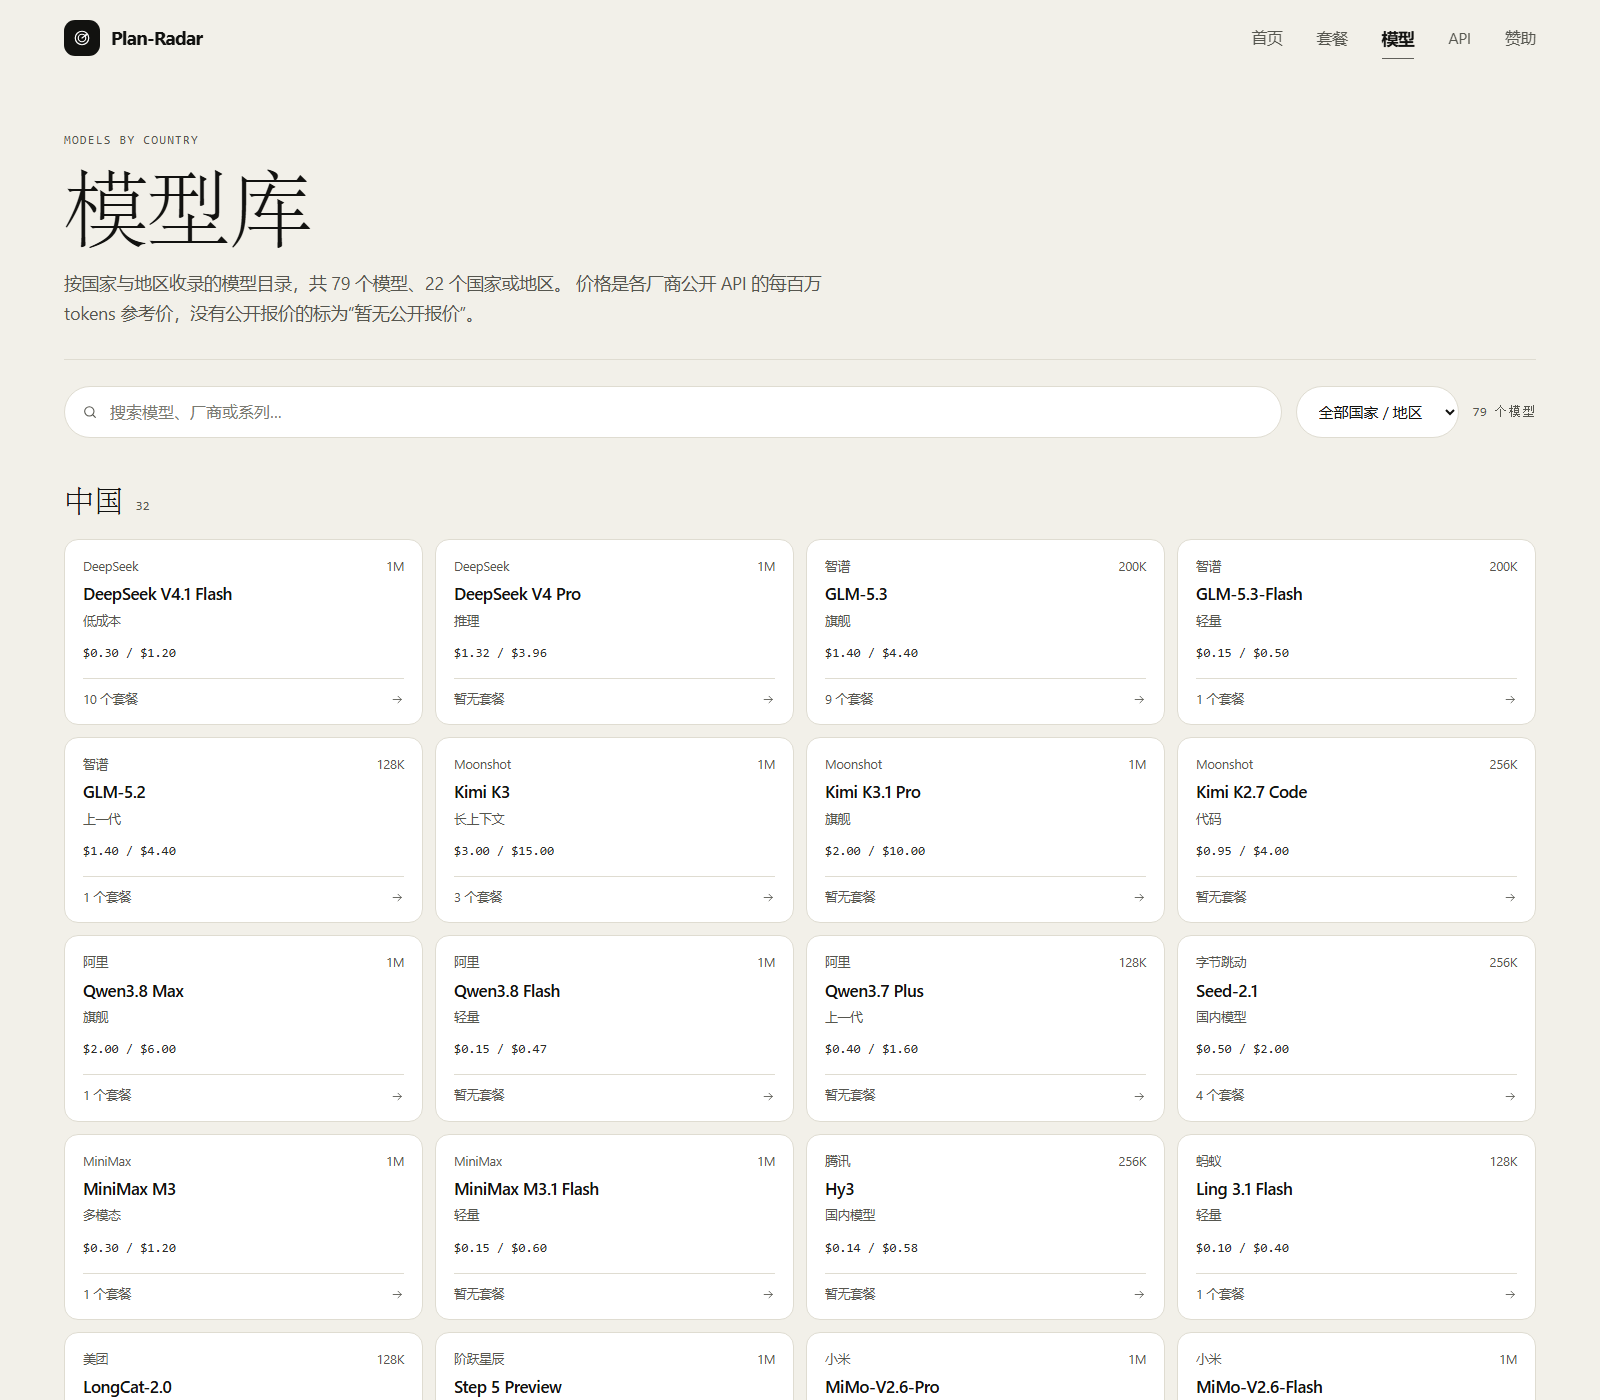
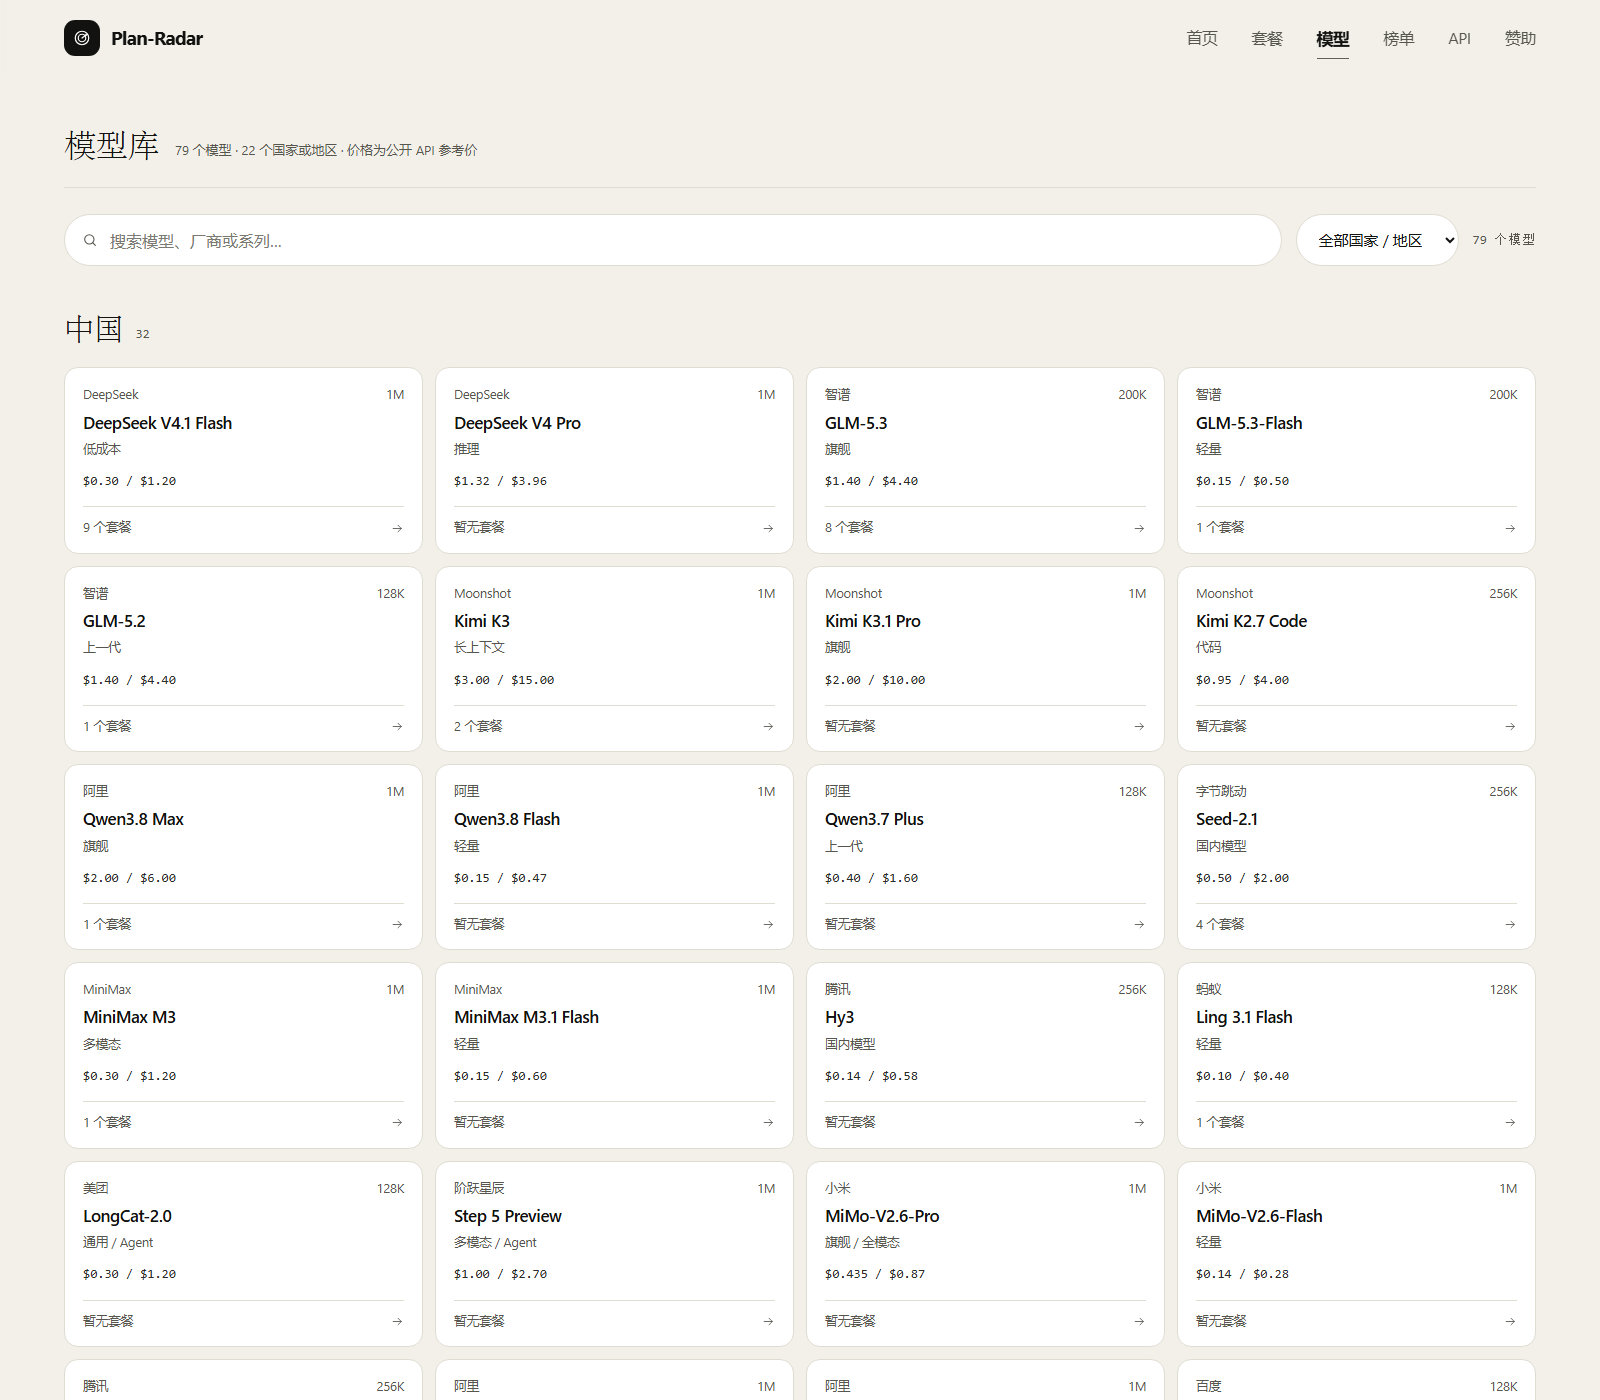
fix: compact models header and remove English eyebrows

diff --git a/app/globals.css b/app/globals.css
@@ -2216,17 +2216,22 @@ button:focus-visible {
 
 /* ---------- model directory ---------- */
 
-.models-page { padding-top: 54px; }
+.models-page { padding-top: 40px; }
 .models-head {
-  padding-bottom: 30px;
+  display: flex;
+  align-items: baseline;
+  gap: 16px;
+  flex-wrap: wrap;
+  padding-bottom: 16px;
   border-bottom: 1px solid var(--line);
 }
-.models-head .display {
-  max-width: 900px;
-  margin-top: 10px;
-  font-size: clamp(48px, 6vw, 84px);
+.models-head h1 {
+  font-family: var(--display);
+  font-size: 32px;
+  font-weight: 400;
+  letter-spacing: -0.01em;
 }
-.models-head .lead { margin-top: 18px; max-width: 760px; }
+.models-head p { font-size: 13px; color: var(--muted); }
 
 .dir-toolbar {
   display: flex;

diff --git a/app/models/page.tsx b/app/models/page.tsx
@@ -29,11 +29,9 @@ export default function ModelsPage() {
   return (
     <div className="wrap models-page">
       <header className="models-head">
-        <div className="eyebrow">Models by country</div>
-        <h1 className="display">模型库</h1>
-        <p className="lead">
-          按国家与地区收录的模型目录，共 {rows.length} 个模型、{countries.size} 个国家或地区。
-          价格是各厂商公开 API 的每百万 tokens 参考价，没有公开报价的标为“暂无公开报价”。
+        <h1>模型库</h1>
+        <p>
+          {rows.length} 个模型 · {countries.size} 个国家或地区 · 价格为公开 API 参考价
         </p>
       </header>
 

diff --git a/app/vote/page.tsx b/app/vote/page.tsx
@@ -54,7 +54,6 @@ export default function VotePage() {
   return (
     <div className="wrap vote-page">
       <header className="vote-head">
-        <div className="eyebrow">Community rankings</div>
         <h1 className="display">榜单</h1>
         <p className="lead">
           日榜、周榜、月榜、季榜、年榜，多维度投票。性价比按“额度 ÷ 月费”直接计算；

diff --git a/app/api/all/page.tsx b/app/api/all/page.tsx
@@ -20,7 +20,6 @@ export default function AllApiPage() {
 
       <div className="section-head" style={{ marginTop: 52 }}>
         <div>
-          <div className="eyebrow">Token prices</div>
           <h2 className="section-title">官方 API 价目表</h2>
         </div>
       </div>
